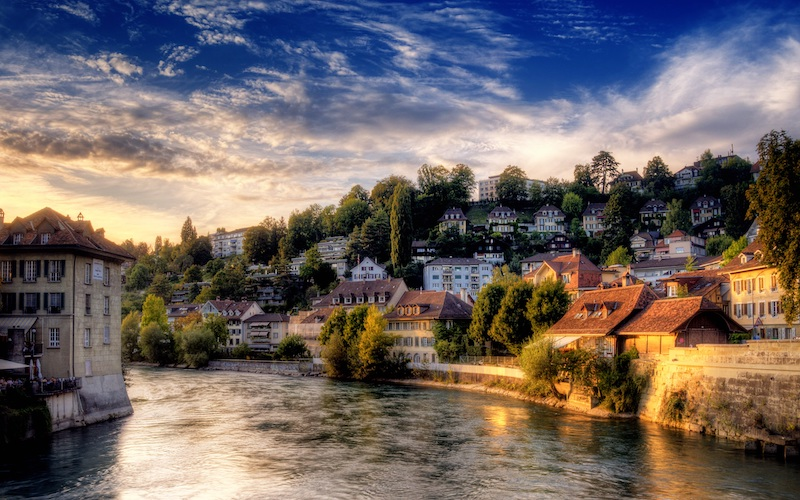
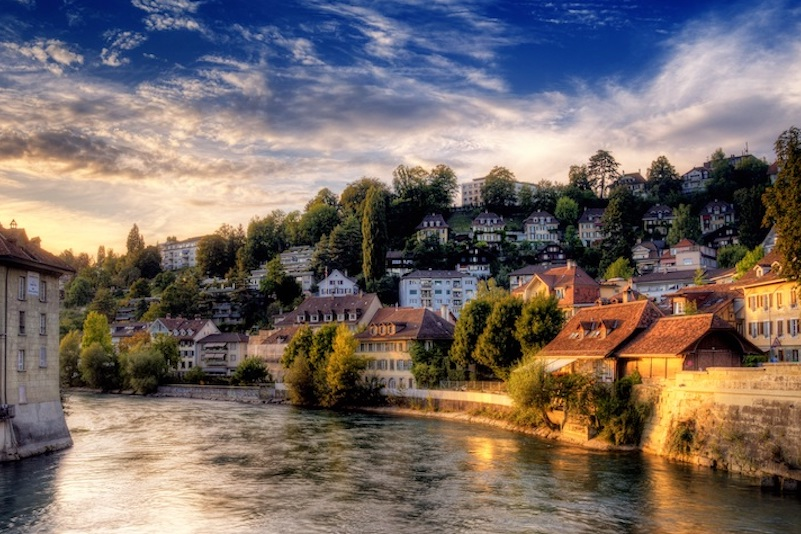
update project

diff --git a/index.html b/index.html
@@ -155,7 +155,7 @@
                 </div>
                 <div class="row">
                     <div class="col span-1-of-4 box">
-                            <img src="img/bern.jpg" alt="bern">
+                            <img class="image-resize" src="img/bern.jpg" alt="bern">
                             
                             <h3>Bern</h3>
                             <div class="city-feature">
@@ -173,7 +173,7 @@
                     </div>     
                             
                        <div class="col span-1-of-4 box">
-                            <img src="img/luzern.jpg" alt="luzern">
+                            <img class="image-resize" src="img/luzern.jpg" alt="luzern">
                             
                             <h3>Luzern</h3>
                             <div class="city-feature">
@@ -190,7 +190,7 @@
                             </div>
                     </div>  
                         <div class="col span-1-of-4 box">
-                            <img src="img/basel.jpg" alt="basel">
+                            <img class="image-resize" src="img/basel.jpg" alt="basel">
                             
                             <h3>Basel</h3>
                             <div class="city-feature">
@@ -207,7 +207,7 @@
                             </div>
                     </div>    
                         <div class="col span-1-of-4 box">
-                            <img src="img/zurich.jpg" alt="zurich">
+                            <img class="image-resize" src="img/zurich.jpg" alt="zurich">
                             
                             <h3>Zürich</h3>
                             <div class="city-feature">

diff --git a/js/main.js b/js/main.js
@@ -64,7 +64,7 @@ $(document).ready(function(){
 
                 $(".js--wp-4").addClass("animated pulse");
             }, {
-                offset: "50%"
+                offset: "20%"
             });
 
                 /* Mobile navigation */

diff --git a/css/style.css b/css/style.css
@@ -648,6 +648,15 @@ footer p{
    color: #dd4b39;
 }
 
+
+.image-resize{
+    height: auto; 
+    width: auto; 
+    max-width: 300px; 
+    max-height: 300px;
+}
+
+
 /* animation*/
 
 .js--wp-1,
